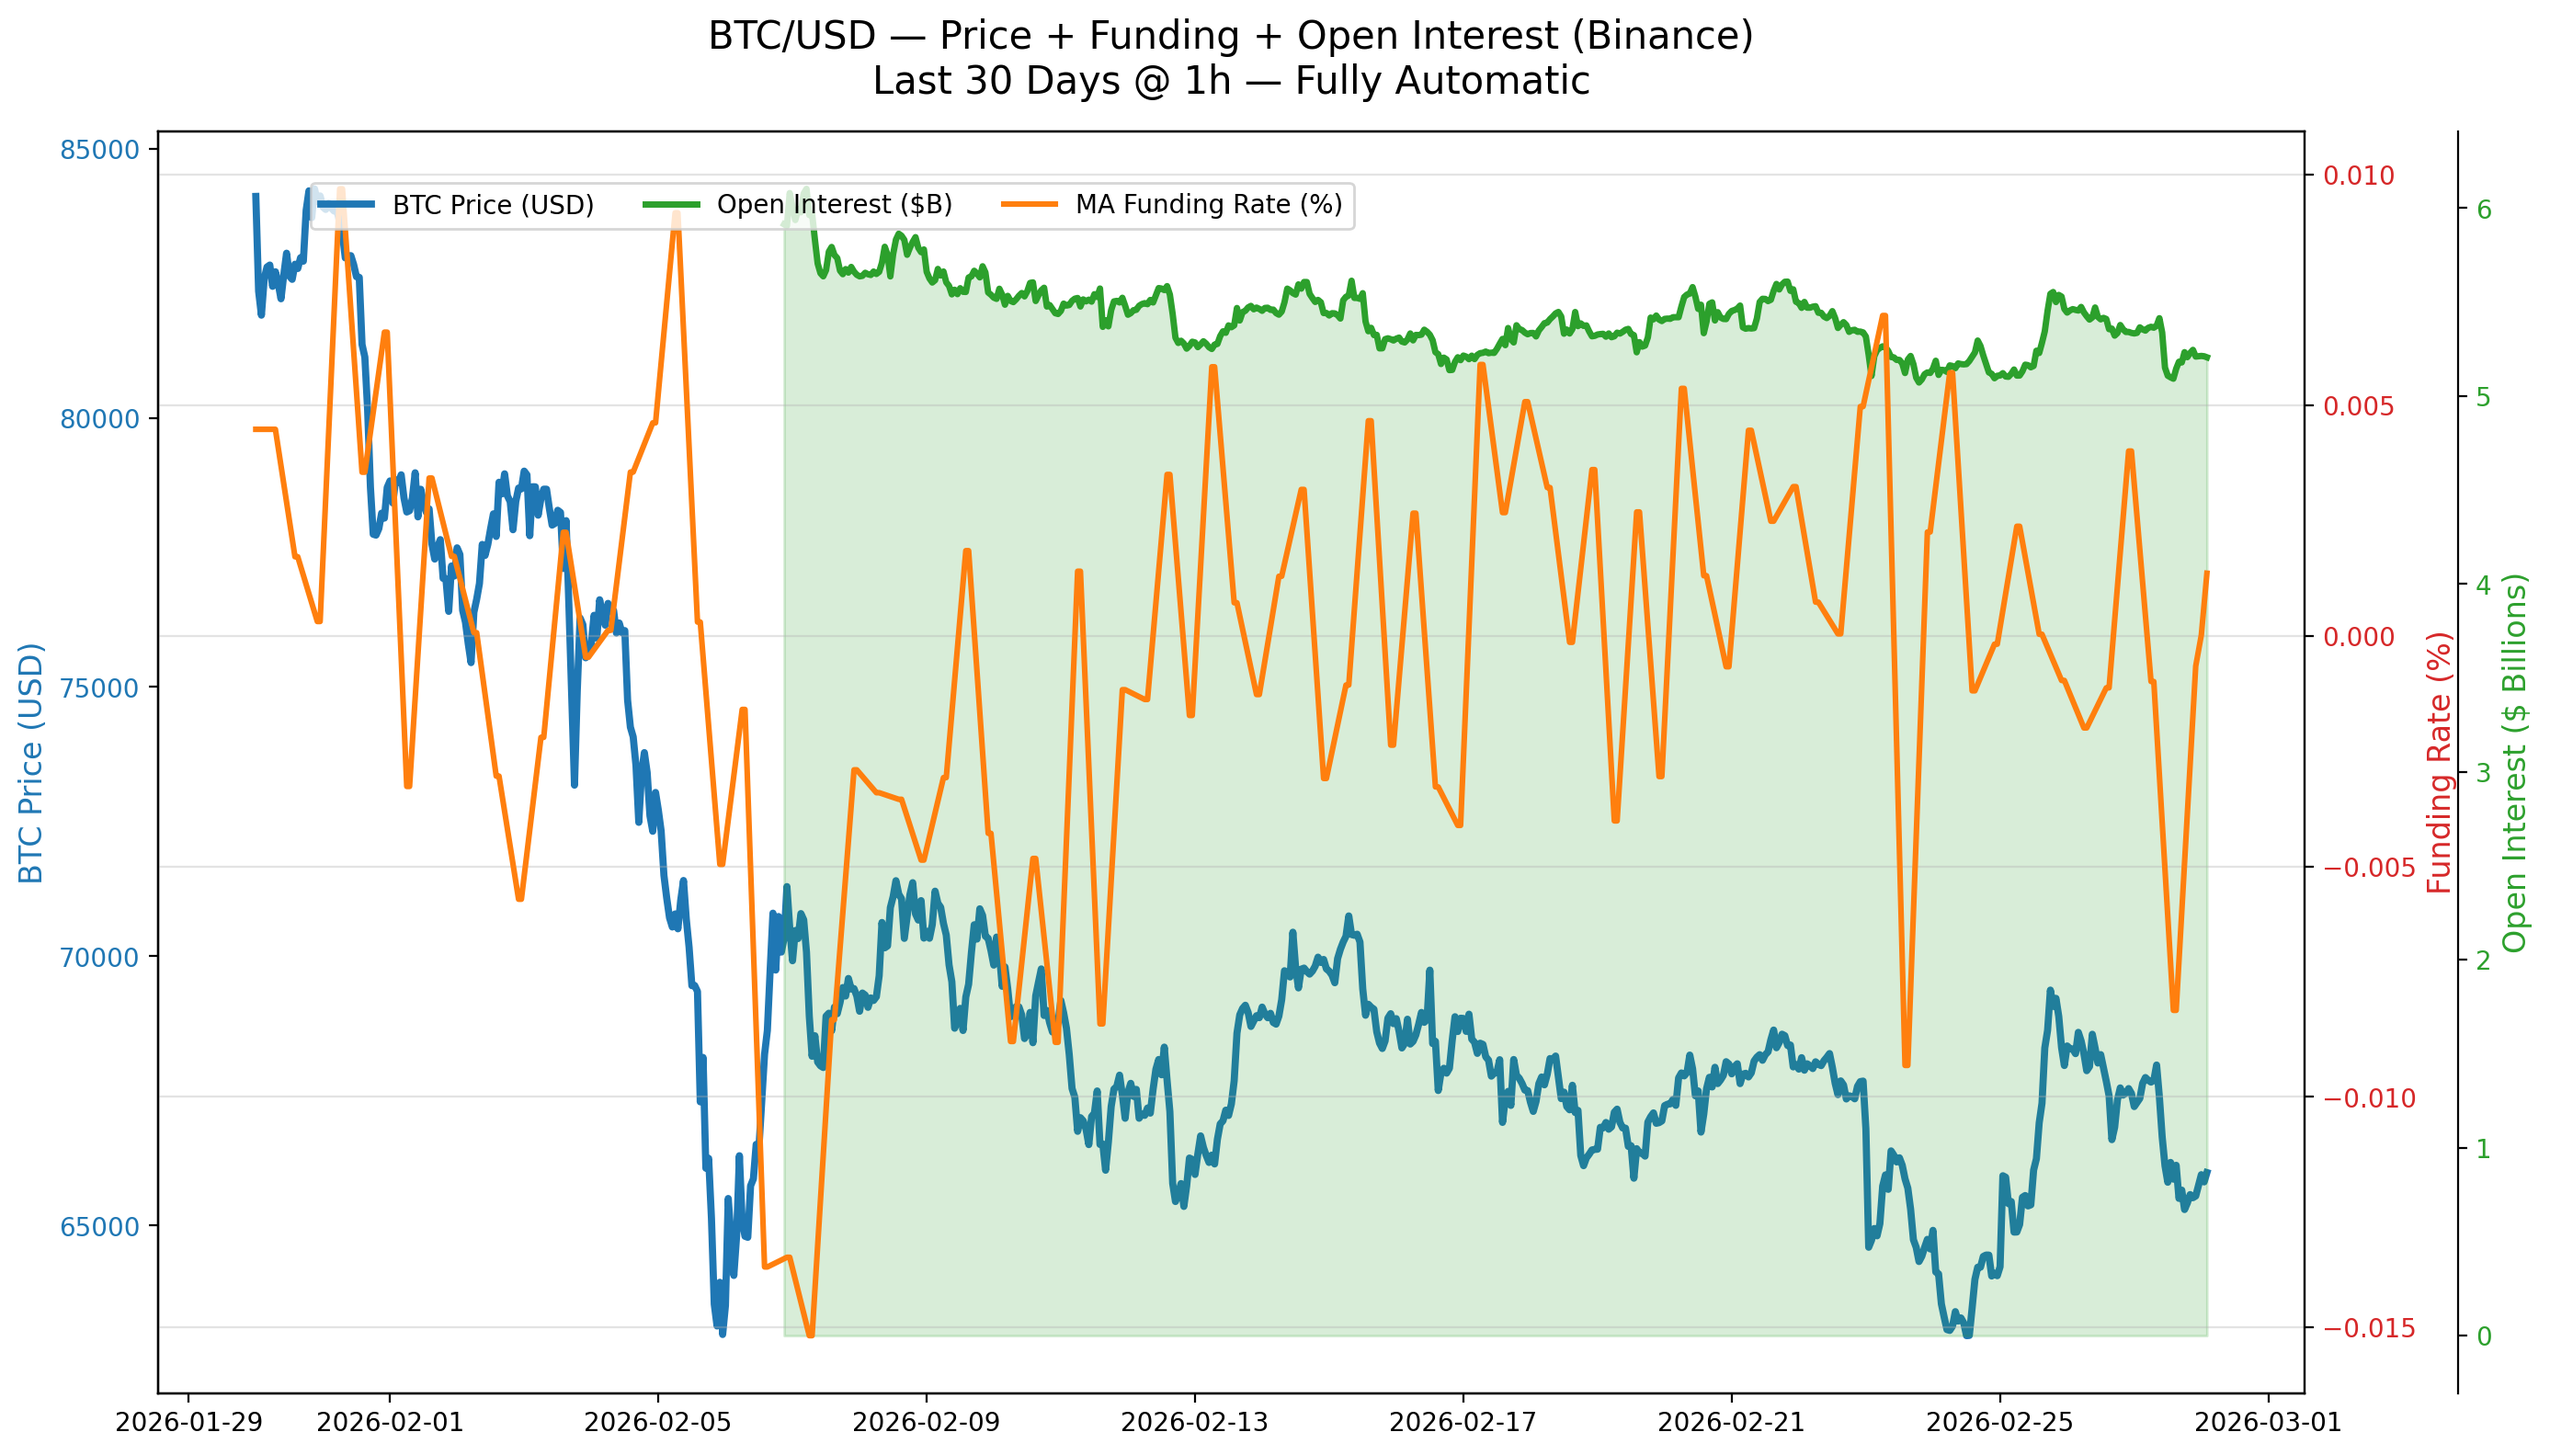
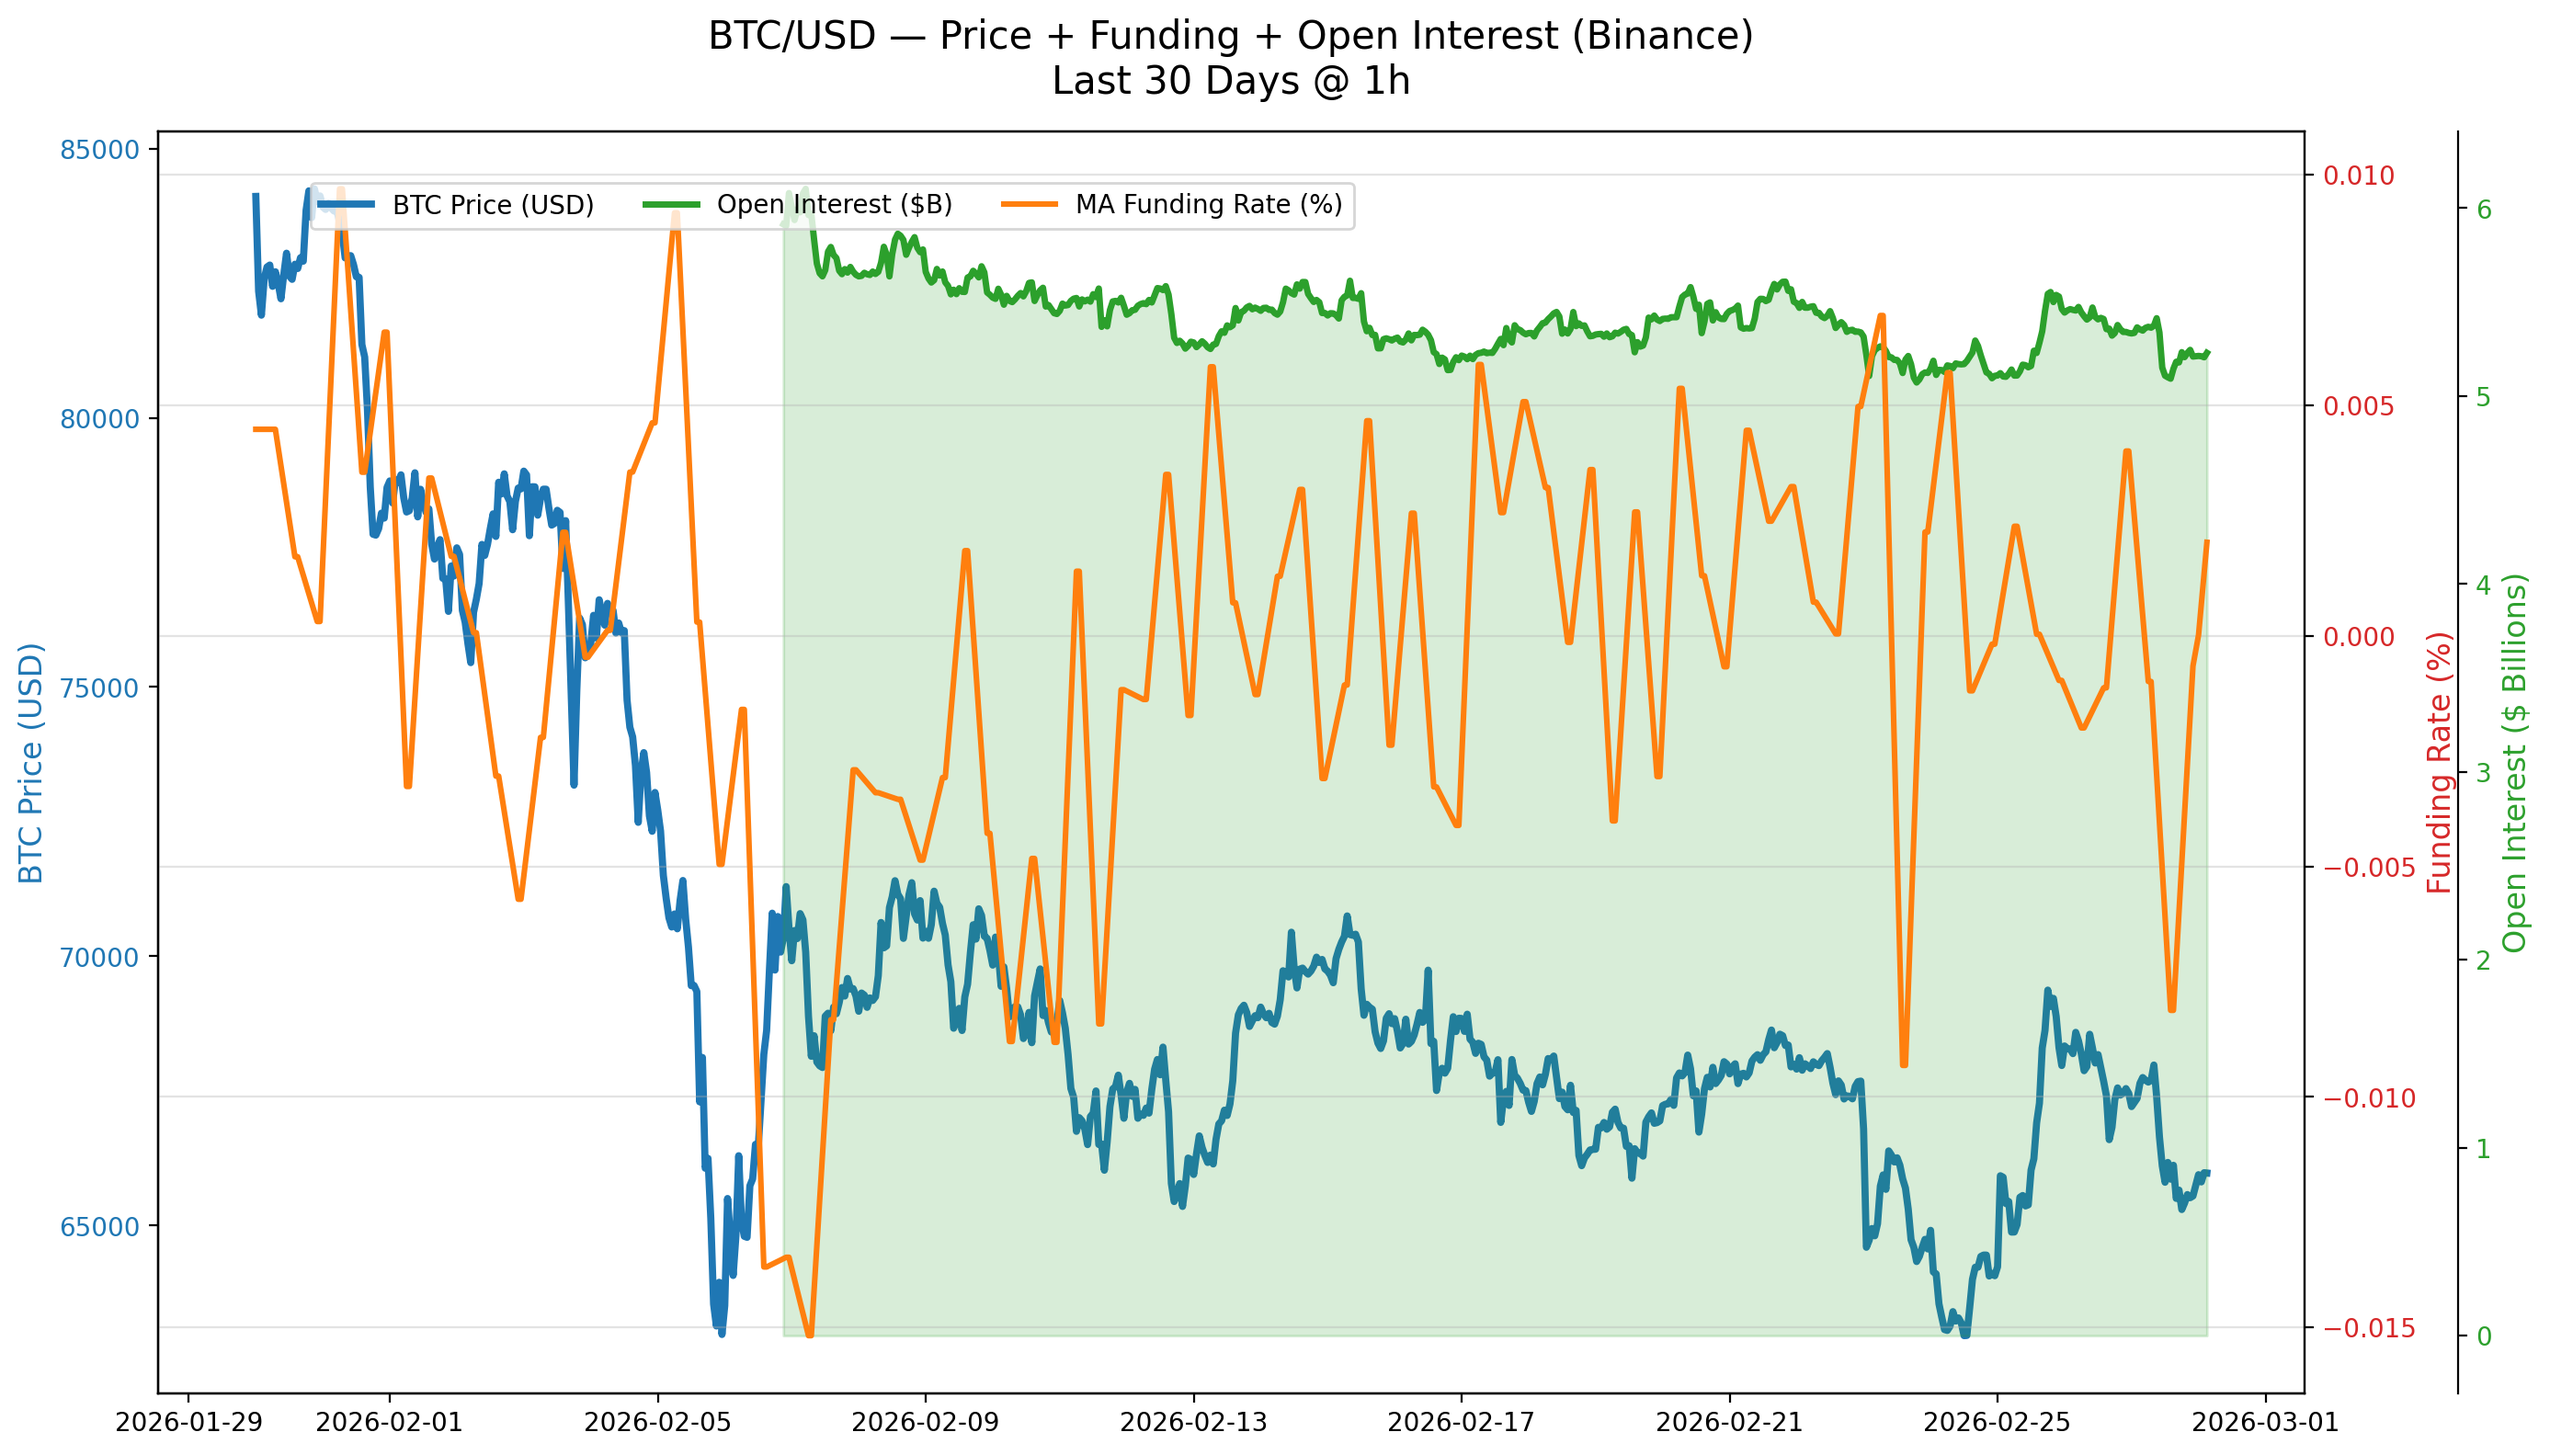
good sample chart

diff --git a/src/funding_and_oi/drawCharts.py b/src/funding_and_oi/drawCharts.py
@@ -120,7 +120,7 @@ class BTCLeverageChart:
         ax2.set_ylabel('Funding Rate (%)', color='#d62728', fontsize=12)
         ax2.tick_params(axis='y', labelcolor='#d62728')
 
-        plt.title(f'BTC/USD — Price + Funding + Open Interest (Binance)\nLast {self.days_back} Days @ {self.interval} — Fully Automatic',
+        plt.title(f'BTC/USD — Price + Funding + Open Interest (Binance)\nLast {self.days_back} Days @ {self.interval}',
                   fontsize=15, pad=15)
         fig.legend(loc="upper left", bbox_to_anchor=(0.12, 0.88), fontsize=10, ncol=3)
         plt.grid(True, alpha=0.35)
